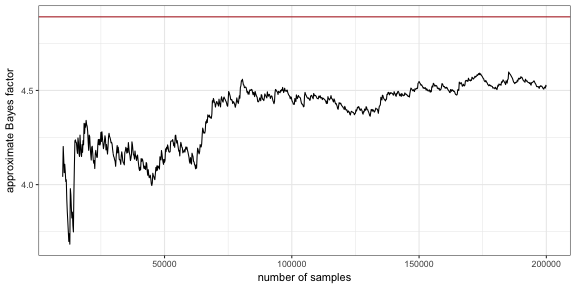
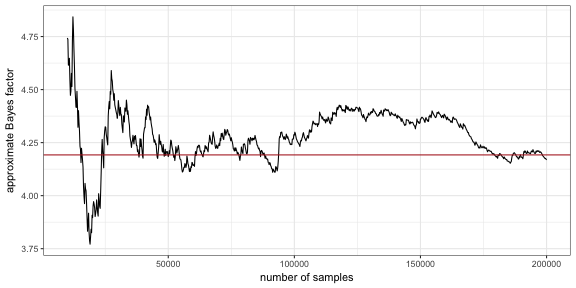
blog post continued

diff --git a/_posts/2017-07-07-BF_computation.md b/_posts/2017-07-07-BF_computation.md
@@ -236,7 +236,7 @@ paste0("Approximate BF in favor of complex model (Savage-Dickey): ",
 
 
 {% highlight text %}
-## [1] "Approximate BF in favor of complex model (Savage-Dickey): 4.891"
+## [1] "Approximate BF in favor of complex model (Savage-Dickey): 4.192"
 {% endhighlight %}
  
 In sum, the Savage-Dickey method is an elegant and practical method for computing (or approximating, if based on sampling) Bayes factors for properly nested models. It is particularly useful when the nested model fixes just a small number of parameters that are free in the nesting model. The method needs to go through two bottlenecks that can introduce imprecision in an estimate: first, we may have to rely on posterior samples; second, we may have to rely an numerical approximation of a point-density from the samples.
@@ -340,7 +340,7 @@ paste0("Approximate BF in favor of complex model (naive MC): ",
 
 
 {% highlight text %}
-## [1] "Approximate BF in favor of complex model (naive MC): 4.514"
+## [1] "Approximate BF in favor of complex model (naive MC): 4.248"
 {% endhighlight %}
  
 It is diagnostic to see the temporal development of the Bayes factor approximation as more and more samples are taken. This is plotted here, comparing it also to the result from the Savage-Dickey method (the red line).
@@ -419,13 +419,20 @@ The script in file `GCM_3_BF_transdimensional.R` collects posterior samples from
 modelFile = "GCM_3_BF_transdimensional.txt"
 {% endhighlight %}
  
+ 
 
  
 All we really need to do is collect samples of the posterior over $m$. Since we assumed that models are equally probable a priori (by taking $m \sim \text{Bernoulli}(0.5)$), the fraction of samples for which $m = 1$ approximates the Bayes factor in favor of the complex model:
  
 
 {% highlight r %}
-show(modelFile)
+modelFile
+{% endhighlight %}
+ 
+test
+ 
+
+{% highlight r %}
 jagsModel = jags.model(file = modelFile, 
                        data = dataList,
                        n.chains = 2)
